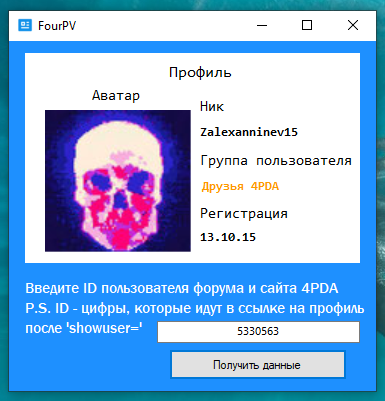
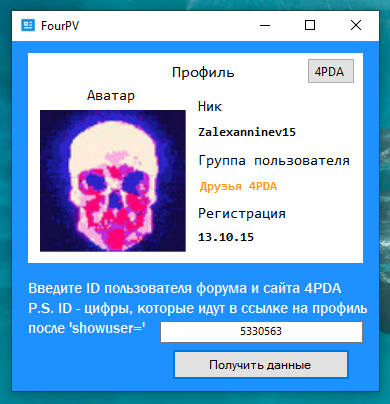
Версия 1.1
Изменения:
- Добавлена кнопка, которая ведёт на страницу профиля на 4PDA
- Добавлена проверка, которая решит проблемы при поиске фотографии (если "photo" прописано где-то помимо кода страницы)
- Улучшена поддержка профилей без аватарки
- Улучшена работа с данными
- Мелкие изменения внешнего вида
- Исправлены ошибки при работе с профилями, которые содержат цифру в качестве первого символа
- Исправлены возможные баги

diff --git a/source/Profile.cs b/source/Profile.cs
@@ -685,15 +685,21 @@ namespace FourPV
 {
     public partial class Profile : Form
     {
+        string url; bool IsPhoto = false;
+
         public Profile() { InitializeComponent(); }
 
         private void button1_Click(object sender, EventArgs e)
         {
+            IsPhoto = false; // Проверка на подозрительные строки
+            if (File.Exists(@Application.StartupPath + @"\avatar.dat")) { File.Delete(@Application.StartupPath + @"\avatar.dat"); }
+            if (File.Exists(@Application.StartupPath + @"\profile.dat")) { File.Delete(@Application.StartupPath + @"\profile.dat"); }
             try
             {
                 using (WebClient wc = new WebClient())
                 {
-                    Uri user = new Uri("https://4pda.ru/forum/index.php?showuser=" + textBox1.Text); // Задание URL адреса для дальнейшего взаимодействия
+                    url = "https://4pda.ru/forum/index.php?showuser=" + textBox1.Text; // Добавление профиля для сбора информации и дальнейшего открытия в браузере
+                    Uri user = new Uri(url); // Задание URL адреса для дальнейшего взаимодействия
                     string htmlCode = GetResponse(user.ToString()); // Чтение страницы профиля
                     string username = ParseTitle(htmlCode).Replace(" - 4PDA", "");  // Поиск ника в заголовке страницы профиля
                     wc.DownloadFile(user, @Application.StartupPath + @"\profile.dat"); // Скачивание копии профиля (только код)
@@ -701,7 +707,7 @@ namespace FourPV
                     for (int i = 0; i < profile.Length; i++)
                     {
                         // Поиск аватарки на странице профиля
-                        if (profile[i].Contains("photo")) // Поиск совпадения
+                        if (profile[i].Contains("photo") && (IsPhoto == false)) // Поиск совпадения и проверка на подозрительные строки
                         {
                             string avp;
                             try
@@ -709,15 +715,22 @@ namespace FourPV
                                 avp = Convert.ToString("http:" + profile[i + 1].Replace("			<img src=\"", "").Replace("\" border=\"0\" alt=\"Аватар\" title=\"" + username + "\"/>", "")); // Поиск ссылки на аватарку
                                 wc.DownloadFile(avp, @Application.StartupPath + @"\avatar.dat"); // Скачивание аватарки
                                 pictureBox1.ImageLocation = @Application.StartupPath + @"\avatar.dat"; // Установка автарки на pictureBox
+                                IsPhoto = true; // Проверка на подозрительные строки
                             }
                             catch
                             {
-                                char[] charArray = username.ToCharArray();
-                                username = Convert.ToString(charArray[0]).ToLower() + username.Remove(0, 1); // Если установить аватарку нельзя, то значит первая буква в нике заглавная (по заголовку страницы профиля)
-                                avp = Convert.ToString("http:" + profile[i + 1].Replace("			<img src=\"", "").Replace("\" border=\"0\" alt=\"Аватар\" title=\"" + username + "\"/>", "")); // Поиск ссылки на аватарку
-                                wc.DownloadFile(avp, @Application.StartupPath + @"\avatar.dat"); // Скачивание аватарки
-                                pictureBox1.ImageLocation = @Application.StartupPath + @"\avatar.dat"; // Установка автарки на pictureBox
+                                try
+                                {
+                                    char[] charArray = username.ToCharArray();
+                                    username = Convert.ToString(charArray[0]).ToLower() + username.Remove(0, 1); // Если установить аватарку нельзя, то значит первая буква в нике заглавная (по заголовку страницы профиля)
+                                    avp = Convert.ToString("http:" + profile[i + 1].Replace("			<img src=\"", "").Replace("\" border=\"0\" alt=\"Аватар\" title=\"" + username + "\"/>", "")); // Поиск ссылки на аватарку
+                                    wc.DownloadFile(avp, @Application.StartupPath + @"\avatar.dat"); // Скачивание аватарки
+                                    pictureBox1.ImageLocation = @Application.StartupPath + @"\avatar.dat"; // Установка автарки на pictureBox
+                                    IsPhoto = true; // Проверка на подозрительные строки
+                                }
+                                catch { IsPhoto = false; /* Проверка на подозрительные строки */ }
                             }
+                            if (File.Exists(@Application.StartupPath + @"\avatar.dat") == false) { pictureBox1.Image = Properties.Resources.AvatarNull; }
                         }
                         // Поиск группы пользователя (https://4pda.ru/forum/index.php?act=boardrules)
                         if (profile[i].Contains("Пользователи")) // Поиск совпадения
@@ -785,7 +798,7 @@ namespace FourPV
                             label6.Text = "Супермодераторы"; // Группа пользователя
                             label6.ForeColor = Color.FromArgb(0, 0, 255); // Установка цвета группы (в соответствии с https://4pda.ru/forum/index.php?act=boardrules)
                         }
-                        if (profile[i].Contains("Администраторы")) // Поиск совпадения
+                        if ((profile[i].Contains("Администраторы")) || (profile[i].Contains("Админы"))) // Поиск совпадения
                         {
                             label6.Text = "Администраторы"; // Группа пользователя
                             label6.ForeColor = Color.FromArgb(255, 0, 0); // Установка цвета группы (в соответствии с https://4pda.ru/forum/index.php?act=boardrules)
@@ -797,9 +810,10 @@ namespace FourPV
                         }
                     }
                     label4.Text = username; // Показ ника
+                    button2.Visible = true; // Показ кнопки для перехода в профиль в браузере
                 }
             }
-            catch(Exception ex) { MessageBox.Show(ex.ToString()); MessageBox.Show("Данного ID не существует!", "Ошибка", MessageBoxButtons.OK, MessageBoxIcon.Error); }
+            catch { MessageBox.Show("Данного ID не существует!", "Ошибка", MessageBoxButtons.OK, MessageBoxIcon.Error); }
         }
 
         private string ParseTitle(string htmlCode)
@@ -835,6 +849,11 @@ namespace FourPV
             }
             while (count > 0);
             return sb.ToString();
+        }
+
+        private void button2_Click(object sender, EventArgs e)
+        {
+            try { System.Diagnostics.Process.Start(url); } catch { MessageBox.Show("Браузер по умолчанию не установлен!", "Ошибка", MessageBoxButtons.OK, MessageBoxIcon.Warning); }
         }
     }
 }

diff --git a/source/Profile.Designer.cs b/source/Profile.Designer.cs
@@ -43,16 +43,19 @@ namespace FourPV
             this.label7 = new System.Windows.Forms.Label();
             this.label3 = new System.Windows.Forms.Label();
             this.label2 = new System.Windows.Forms.Label();
+            this.button2 = new System.Windows.Forms.Button();
             this.panel1.SuspendLayout();
             ((System.ComponentModel.ISupportInitialize)(this.pictureBox1)).BeginInit();
             this.SuspendLayout();
             // 
             // button1
             // 
+            this.button1.Font = new System.Drawing.Font("Gadugi", 9F, System.Drawing.FontStyle.Regular, System.Drawing.GraphicsUnit.Point, ((byte)(0)));
             this.button1.Location = new System.Drawing.Point(160, 308);
             this.button1.Name = "button1";
             this.button1.Size = new System.Drawing.Size(178, 31);
             this.button1.TabIndex = 0;
+            this.button1.TabStop = false;
             this.button1.Text = "Получить данные";
             this.button1.UseVisualStyleBackColor = true;
             this.button1.Click += new System.EventHandler(this.button1_Click);
@@ -83,6 +86,7 @@ namespace FourPV
             this.panel1.BackColor = System.Drawing.Color.White;
             this.panel1.Controls.Add(this.pictureBox1);
             this.panel1.Controls.Add(this.label9);
+            this.panel1.Controls.Add(this.button2);
             this.panel1.Controls.Add(this.label6);
             this.panel1.Controls.Add(this.label4);
             this.panel1.Controls.Add(this.label8);
@@ -97,7 +101,7 @@ namespace FourPV
             // 
             // pictureBox1
             // 
-            this.pictureBox1.Location = new System.Drawing.Point(20, 57);
+            this.pictureBox1.Location = new System.Drawing.Point(12, 57);
             this.pictureBox1.Name = "pictureBox1";
             this.pictureBox1.Size = new System.Drawing.Size(146, 142);
             this.pictureBox1.SizeMode = System.Windows.Forms.PictureBoxSizeMode.StretchImage;
@@ -108,7 +112,7 @@ namespace FourPV
             // 
             this.label9.AutoSize = true;
             this.label9.Font = new System.Drawing.Font("Consolas", 9.75F, System.Drawing.FontStyle.Bold, System.Drawing.GraphicsUnit.Point, ((byte)(204)));
-            this.label9.Location = new System.Drawing.Point(172, 176);
+            this.label9.Location = new System.Drawing.Point(167, 176);
             this.label9.Name = "label9";
             this.label9.Size = new System.Drawing.Size(84, 15);
             this.label9.TabIndex = 0;
@@ -119,7 +123,7 @@ namespace FourPV
             // 
             this.label6.AutoSize = true;
             this.label6.Font = new System.Drawing.Font("Consolas", 9.75F, System.Drawing.FontStyle.Bold, System.Drawing.GraphicsUnit.Point, ((byte)(204)));
-            this.label6.Location = new System.Drawing.Point(174, 125);
+            this.label6.Location = new System.Drawing.Point(169, 125);
             this.label6.Name = "label6";
             this.label6.Size = new System.Drawing.Size(140, 15);
             this.label6.TabIndex = 0;
@@ -130,7 +134,7 @@ namespace FourPV
             // 
             this.label4.AutoSize = true;
             this.label4.Font = new System.Drawing.Font("Consolas", 9.75F, System.Drawing.FontStyle.Bold, System.Drawing.GraphicsUnit.Point, ((byte)(204)));
-            this.label4.Location = new System.Drawing.Point(172, 71);
+            this.label4.Location = new System.Drawing.Point(167, 71);
             this.label4.Name = "label4";
             this.label4.Size = new System.Drawing.Size(28, 15);
             this.label4.TabIndex = 0;
@@ -141,7 +145,7 @@ namespace FourPV
             // 
             this.label8.AutoSize = true;
             this.label8.Font = new System.Drawing.Font("Consolas", 11.25F, System.Drawing.FontStyle.Regular, System.Drawing.GraphicsUnit.Point, ((byte)(204)));
-            this.label8.Location = new System.Drawing.Point(172, 151);
+            this.label8.Location = new System.Drawing.Point(167, 151);
             this.label8.Name = "label8";
             this.label8.Size = new System.Drawing.Size(96, 18);
             this.label8.TabIndex = 0;
@@ -151,7 +155,7 @@ namespace FourPV
             // 
             this.label5.AutoSize = true;
             this.label5.Font = new System.Drawing.Font("Consolas", 11.25F, System.Drawing.FontStyle.Regular, System.Drawing.GraphicsUnit.Point, ((byte)(204)));
-            this.label5.Location = new System.Drawing.Point(172, 98);
+            this.label5.Location = new System.Drawing.Point(167, 98);
             this.label5.Name = "label5";
             this.label5.Size = new System.Drawing.Size(160, 18);
             this.label5.TabIndex = 0;
@@ -161,7 +165,7 @@ namespace FourPV
             // 
             this.label7.AutoSize = true;
             this.label7.Font = new System.Drawing.Font("Consolas", 11.25F, System.Drawing.FontStyle.Regular, System.Drawing.GraphicsUnit.Point, ((byte)(204)));
-            this.label7.Location = new System.Drawing.Point(64, 33);
+            this.label7.Location = new System.Drawing.Point(56, 33);
             this.label7.Name = "label7";
             this.label7.Size = new System.Drawing.Size(56, 18);
             this.label7.TabIndex = 0;
@@ -171,7 +175,7 @@ namespace FourPV
             // 
             this.label3.AutoSize = true;
             this.label3.Font = new System.Drawing.Font("Consolas", 11.25F, System.Drawing.FontStyle.Regular, System.Drawing.GraphicsUnit.Point, ((byte)(204)));
-            this.label3.Location = new System.Drawing.Point(172, 44);
+            this.label3.Location = new System.Drawing.Point(167, 44);
             this.label3.Name = "label3";
             this.label3.Size = new System.Drawing.Size(32, 18);
             this.label3.TabIndex = 0;
@@ -186,6 +190,19 @@ namespace FourPV
             this.label2.Size = new System.Drawing.Size(72, 19);
             this.label2.TabIndex = 0;
             this.label2.Text = "Профиль";
+            // 
+            // button2
+            // 
+            this.button2.Font = new System.Drawing.Font("Gadugi", 9F);
+            this.button2.Location = new System.Drawing.Point(279, 5);
+            this.button2.Name = "button2";
+            this.button2.Size = new System.Drawing.Size(48, 26);
+            this.button2.TabIndex = 0;
+            this.button2.TabStop = false;
+            this.button2.Text = "4PDA";
+            this.button2.UseVisualStyleBackColor = true;
+            this.button2.Visible = false;
+            this.button2.Click += new System.EventHandler(this.button2_Click);
             // 
             // Profile
             // 
@@ -225,6 +242,7 @@ namespace FourPV
         private System.Windows.Forms.Label label7;
         private System.Windows.Forms.Label label8;
         private System.Windows.Forms.Label label9;
+        private System.Windows.Forms.Button button2;
     }
 }
 

diff --git a/source/Properties/Resources.Designer.cs b/source/Properties/Resources.Designer.cs
@@ -59,5 +59,15 @@ namespace FourPV.Properties {
                 resourceCulture = value;
             }
         }
+        
+        /// <summary>
+        ///   Поиск локализованного ресурса типа System.Drawing.Bitmap.
+        /// </summary>
+        internal static System.Drawing.Bitmap AvatarNull {
+            get {
+                object obj = ResourceManager.GetObject("AvatarNull", resourceCulture);
+                return ((System.Drawing.Bitmap)(obj));
+            }
+        }
     }
 }

diff --git a/source/Properties/AssemblyInfo.cs b/source/Properties/AssemblyInfo.cs
@@ -11,5 +11,5 @@ using System.Runtime.InteropServices;
 [assembly: AssemblyCulture("")]
 [assembly: ComVisible(false)]
 [assembly: Guid("eac04239-6a45-4efe-b3fd-cfde53ed8092")]
-[assembly: AssemblyVersion("1.0.0.0")]
-[assembly: AssemblyFileVersion("1.0.0.0")]
+[assembly: AssemblyVersion("1.1.0.0")]
+[assembly: AssemblyFileVersion("1.1.0.0")]
